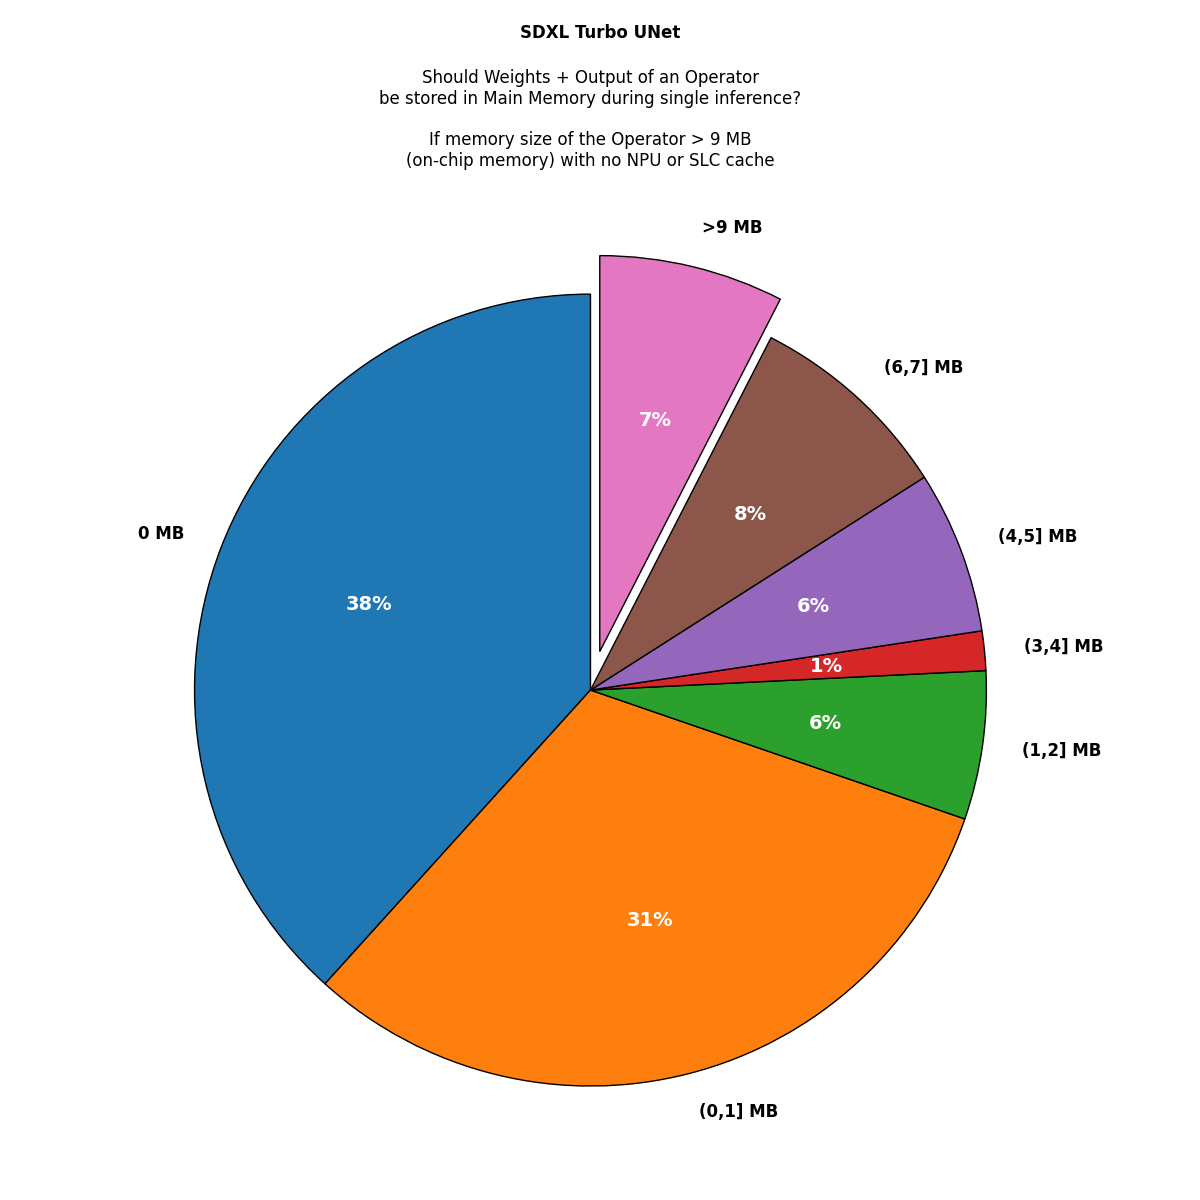
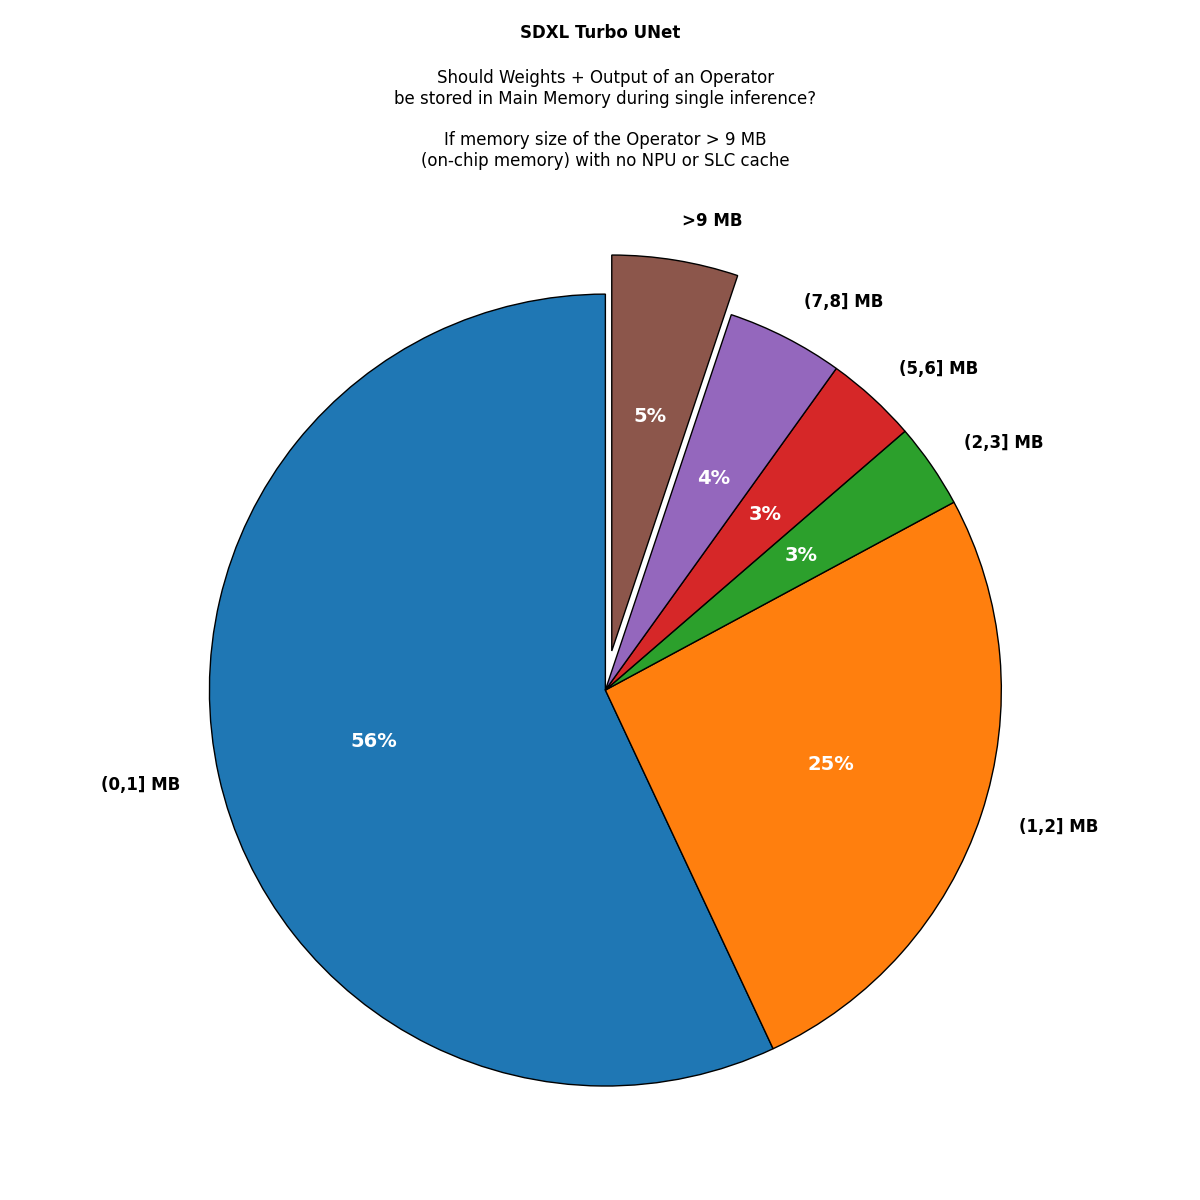
changes to analyser script

diff --git a/scripts/onnxProfile/onnx_profiling_analysis.py b/scripts/onnxProfile/onnx_profiling_analysis.py
@@ -22,8 +22,8 @@ if not os.path.exists(save_directory):
 
 table = pandas.read_csv(filepath)
 
-output_memory = table['Output Memory (in MB)'][:-1].to_numpy(dtype=numpy.int64)
-total_memory = table['Memory (in MB)'][:-1].to_numpy(dtype=numpy.int64)
+output_memory = table['Output Memory (in MB)'][:-1].to_numpy(dtype=numpy.float64)
+total_memory = table['Memory (in MB)'][:-1].to_numpy(dtype=numpy.float64)
 
 main_memory_total_memory_accesses = 0
 memory_usage = {}
@@ -49,7 +49,7 @@ def getDictKey(element, threshold):
     if ceil_elem == 1:
         return '1', '(0,1]'
     
-    elif element > threshold:
+    elif element > threshold * 1.0:
         return str(ceil_elem), '>' + str(threshold)
 
     else:
@@ -67,7 +67,7 @@ for i, element in enumerate(total_memory):
     else:
         memory_usage[key] += 1
 
-        if math.isclose(output_memory[i-1], element):
+        if math.isclose(output_memory[i-1], element, rel_tol=1e-3):
             consecutive_output_memory_usage[key] += 1
 
 
@@ -86,6 +86,13 @@ sorted_consecutive_output_memory_usage = sortDict(consecutive_output_memory_usag
 
 for element in sorted_memory_usage:
     optimized_memory_usage[element] = sorted_memory_usage[element] - sorted_consecutive_output_memory_usage[element]
+
+print(sorted_memory_usage)
+print()
+print(sorted_consecutive_output_memory_usage)
+print()
+print(optimized_memory_usage)
+print()
 
 
 if threshold:
